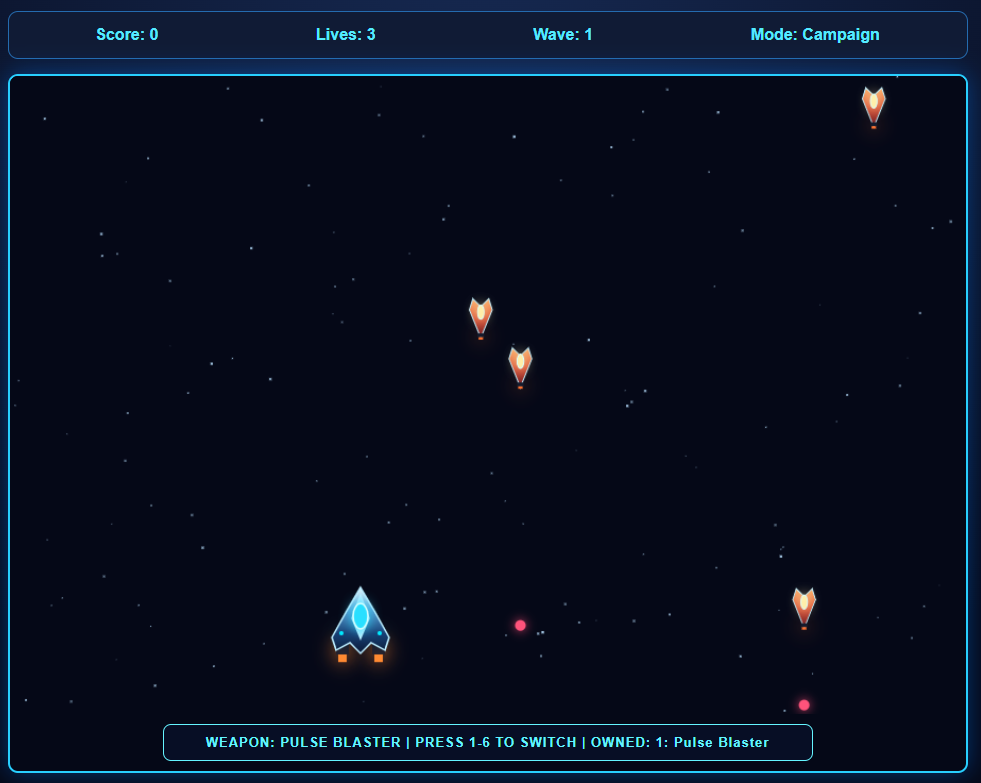
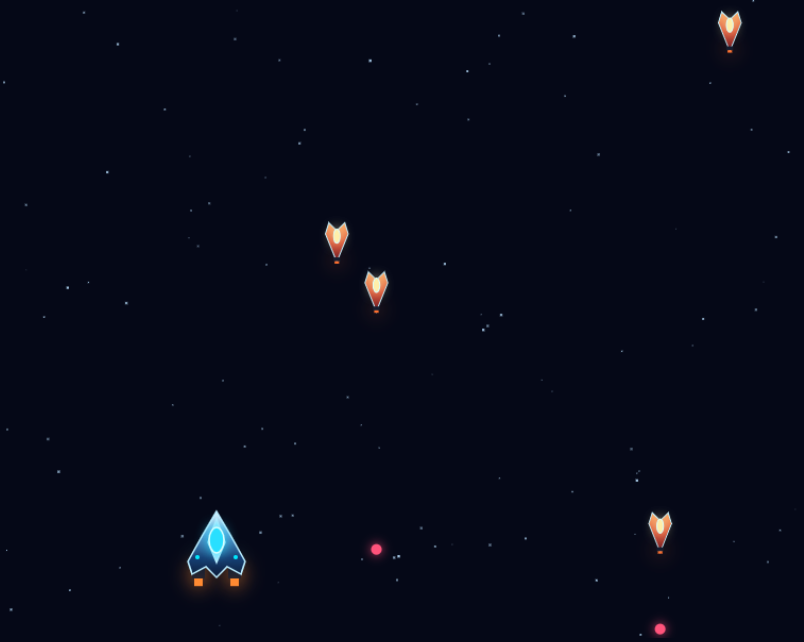
changes

diff --git a/index.html b/index.html
@@ -1093,7 +1093,7 @@
     <script>
       "use strict";
       // Update this string when publishing changed HTML/CSS/JS. Other devices detect the release and reload automatically.
-      const BUILD_VERSION = "stemfest-2026-11-19.15";
+      const BUILD_VERSION = "stemfest-2026-11-19.16";
       // Change this number to control the intro duration in milliseconds. 2500 = 2.5 seconds.
       const LOADING_SCREEN_MS = 2500;
       const STORE = "frontier.stemfest.override.v4";
